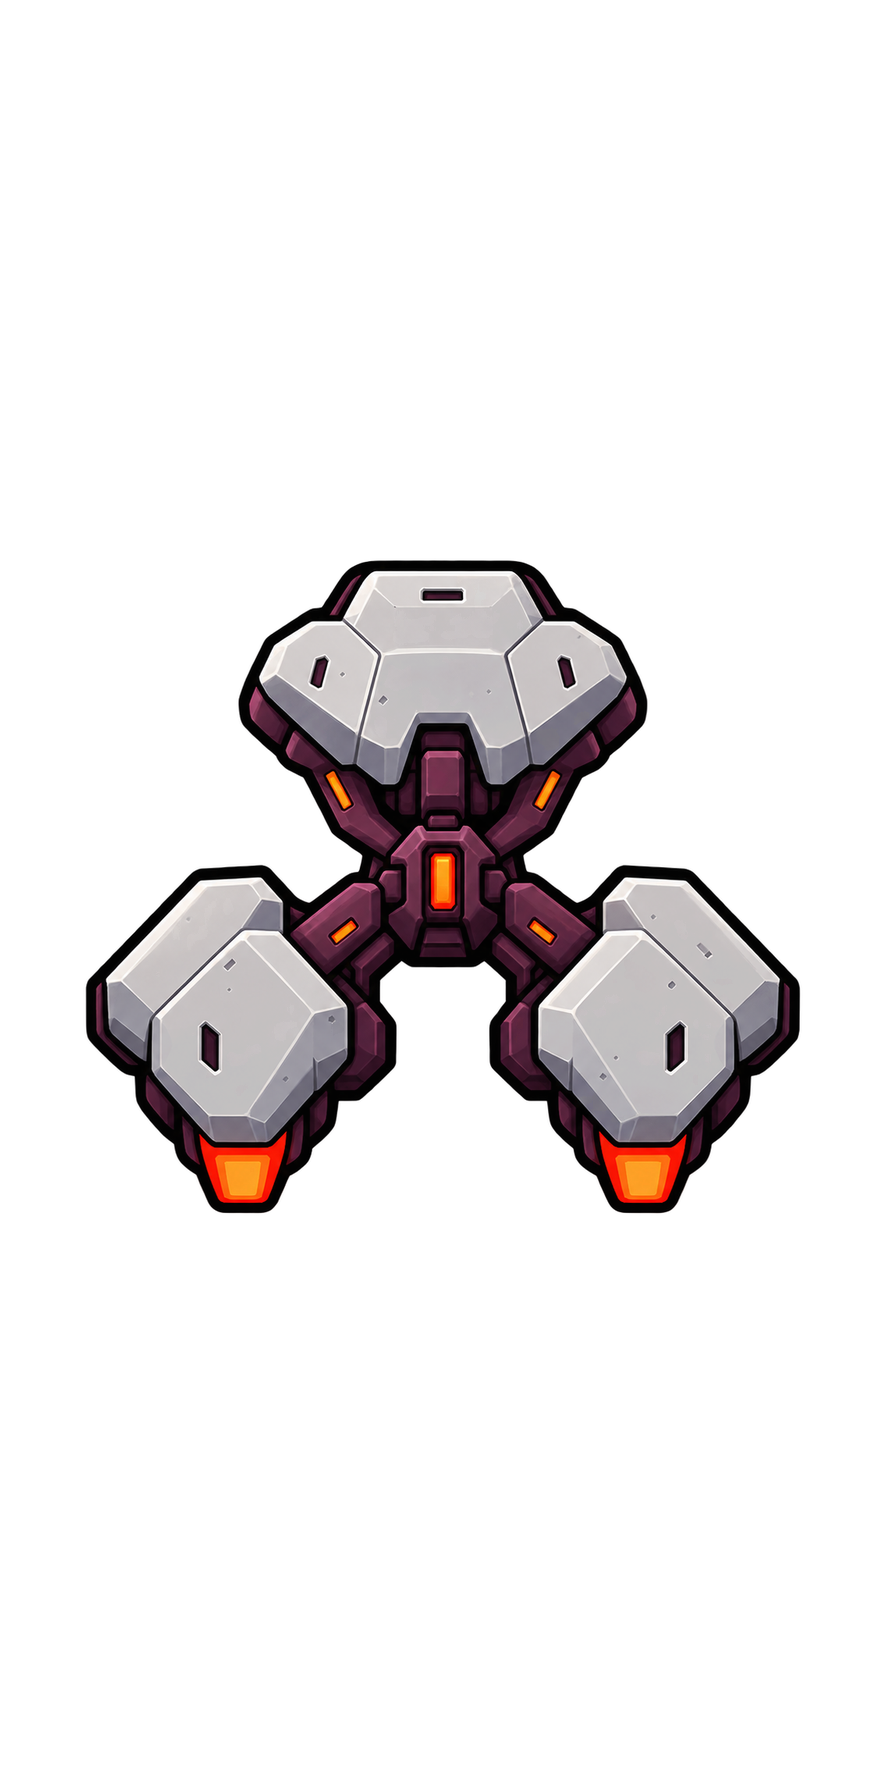
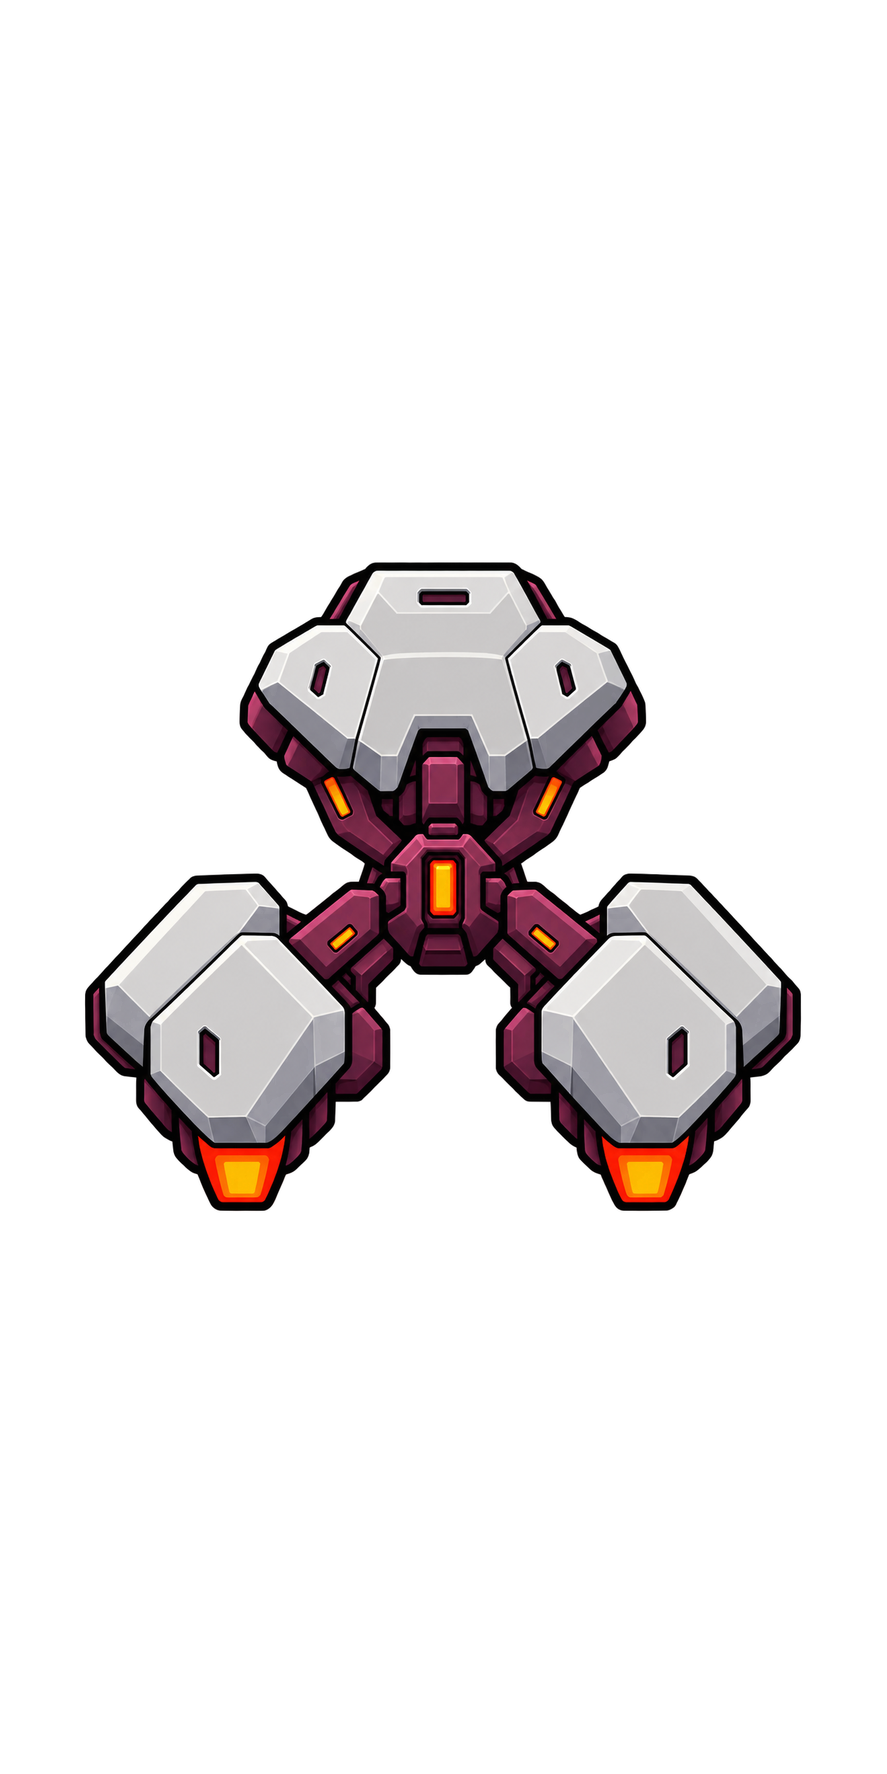
art: import approved refined reactive hull and eight-ship preview

Changed region(s): [[0.0913, 0.31, 0.9132, 0.6821]]

diff --git a/space-battleship/art_sources/enemy-fleet-20261019/prepare_assets.py b/space-battleship/art_sources/enemy-fleet-20261019/prepare_assets.py
@@ -22,7 +22,7 @@ def clean_alpha(image):
 def main():
  OUTPUT.mkdir(parents=True,exist_ok=True)
  image=Image.open(SOURCE).convert('RGBA');clean=clean_alpha(image)
- override=SOURCE.with_name('reactive-three-plates.png')
+ override=SOURCE.with_name('reactive-refined-approved.png')
  report={'source_commit':'f9af84734145a6df6bcc1998fff15730936aa78a','source_sha256':sha(SOURCE),'source_size':list(image.size),'canvas':[887,1774],'opaque_width':720,'weapons_baked':False,'sprites':{}}
  for key,region in REGIONS.items():
   tile=clean.crop(region)
@@ -37,6 +37,6 @@ def main():
   canvas=Image.new('RGBA',(887,1774));canvas.alpha_composite(body,((887-size[0])//2,(1774-size[1])//2))
   target=OUTPUT/(key+'.png');canvas.save(target)
   report['sprites'][key]={'region':list(region),'source_bounds':[region[0]+box[0],region[1]+box[1],region[0]+box[2],region[1]+box[3]],'body_size':list(size),'texture':'res://'+str(target.relative_to(ROOT)),'sha256':sha(target)}
- report['overrides']={'reactive':{'source':'res://'+str(override.relative_to(ROOT)),'source_sha256':sha(override),'generator':'imagegen','request':'res://art_sources/enemy-fleet-20261019/reactive-three-plates-request.json'}}
+ report['overrides']={'reactive':{'source':'res://'+str(override.relative_to(ROOT)),'source_sha256':sha(override),'generator':'parent-approved refinement','source_commit':'e9e8da87b96ba8a191b0ba275a344f4733279ba4'}}
  (OUTPUT/'manifest.json').write_text(json.dumps(report,indent=2)+'\n')
 if __name__=='__main__':main()

diff --git a/space-battleship/assets/ships/enemy/fleet_20261019/README.md b/space-battleship/assets/ships/enemy/fleet_20261019/README.md
@@ -7,3 +7,5 @@ Eight display-only hulls: scout, sentry, interceptor, swarm, anchor, reactive, s
 Consumer: only the eight `enemy_opening_*` display `texture` paths in `data/ship_weapon_visuals.json`. `geometry_texture`, mount mappings, actor sizes and combat centre logic stay as on main. `manifest.json` records exact source crop bounds and hashes. Regenerate with `python art_sources/enemy-fleet-20261019/prepare_assets.py` (Pillow/numpy/scipy).
 
 Reactive identity update: `reactive.png` now uses imagegen source `art_sources/enemy-fleet-20261019/reactive-three-plates.png` and its saved request/prompt. It replaces only reactive with three large armor masses around a small core, open structural gaps and a blunt front pad; the old central nose/rounded silhouette is removed. The other seven sprites, including sentry, are byte-identical to3b853209. The same alpha cleanup and uniform720px-wide normalization are used; the existing1×1 display box, geometry texture and defense effects are unchanged. `manifest.json.overrides` records this additional source.
+
+2026-10-20: reactive now uses parent-approved `reactive-refined-approved.png`, delivered by e9e8da87b96ba8a191b0ba275a344f4733279ba4. This supersedes the three-plates source for runtime regeneration. Alpha cleanup, uniform scaling to 720px body width, centering on 887×1774 and the existing 1×1 display fit remain unchanged; the other seven hulls and production scripts/data are unchanged. No weapons are baked into this static hull.

diff --git a/space-battleship/art_sources/enemy-fleet-20261019/README.md b/space-battleship/art_sources/enemy-fleet-20261019/README.md
@@ -1,3 +1,5 @@
 Approved source atlas from parent commit `f9af84734145a6df6bcc1998fff15730936aa78a`; four columns, two rows, ordered scout/sentry/interceptor/swarm/anchor/reactive/shielded/command. `prepare_assets.py` produces the runtime sprites and manifest; see `assets/ships/enemy/fleet_20261019/README.md` for consumer and scale. The anchor extends beyond its nominal grid cell, so do not quarter-cut this atlas.
 
 `reactive-three-plates.png` is the imagegen replacement for reactive only. Saved request and prompt preserve its two style references (baseline3b853209 reactive and unchanged sentry), transparency request and source hashes. Regeneration of runtime assets automatically applies this source instead of the old atlas reactive crop, preserving every other atlas sprite. The generated original remains in `/workspace/generated_images`; this directory stores its Git-delivered copy.
+
+2026-10-20: reactive now uses parent-approved `reactive-refined-approved.png`, delivered by e9e8da87b96ba8a191b0ba275a344f4733279ba4. This supersedes the three-plates source for runtime regeneration. Alpha cleanup, uniform scaling to 720px body width, centering on 887×1774 and the existing 1×1 display fit remain unchanged; the other seven hulls and production scripts/data are unchanged. No weapons are baked into this static hull.

diff --git a/space-battleship/evidence/reactive-refined-20261020/README.md b/space-battleship/evidence/reactive-refined-20261020/README.md
@@ -1,0 +1,7 @@
+# Reactive 父确认细化稿战场导入
+
+源图为父通过 e9e8da87b96ba8a191b0ba275a344f4733279ba4 交接的 `art_sources/enemy-fleet-20261019/reactive-refined-approved.png`，不使用旧三块装甲源图替代。仅替换 reactive 静态舰体，保留其他七舰及所有生产 scripts/data/config_excel/addons。归一化只清理 alpha 边缘、等比缩放及居中，不重画。
+
+`ordinary-eight.png` 为实际 main.tscn 原始1372×883窗口截图，reactive 在第二排第一格；保存关闭、QA保持血量，实际交火后暂停并清理瞬时弹道和浮字以观察舰体。单格114.4×133.333、舰体fit上限90.4×79.333维持原值；reactive旋转后包围框86.653×79.333，未为外圈缩船。外圈、中心判定、编队实现与数值均未改，编队重设计继续暂停。
+
+资产alpha/比例/组件/配置/几何检查通过；其余7舰逐字节未变；266项实际场景检查0失败，103次开火/109次命中，中心误差小于0.000004逻辑单位。本地Godot4.6.3 Linux/GDS。未合main，视觉协调性由父及用户审核。

diff --git a/space-battleship/docs/knowledge/archive/reactive-refined-20261020.md b/space-battleship/docs/knowledge/archive/reactive-refined-20261020.md
@@ -1,0 +1,3 @@
+# reactive-refined-20261020
+仅导入父确认源图e9e8da87 reactive-refined-approved.png；维持当前单格大小，只换reactive；八舰实机场景预览；编队暂停，不合main。
+完成：仅reactive静态源图切换、manifest/生成器与所属README同步；其他7舰及生产脚本/配置未变。资产检查通过；八舰main.tscn实机266检查0失败，证据evidence/reactive-refined-20261020/ordinary-eight.png。无执行阻塞，待父视觉审，不合main。
